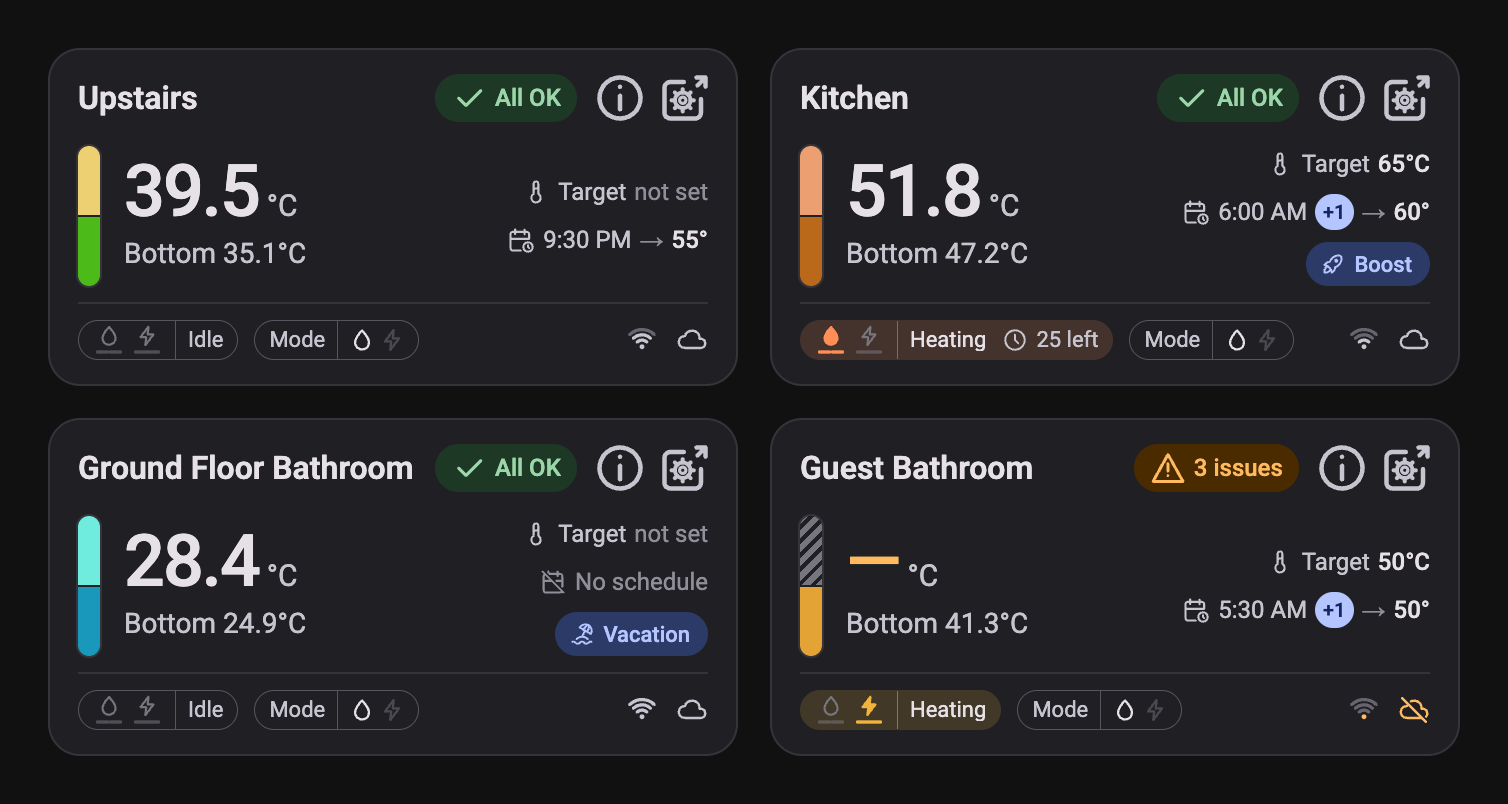
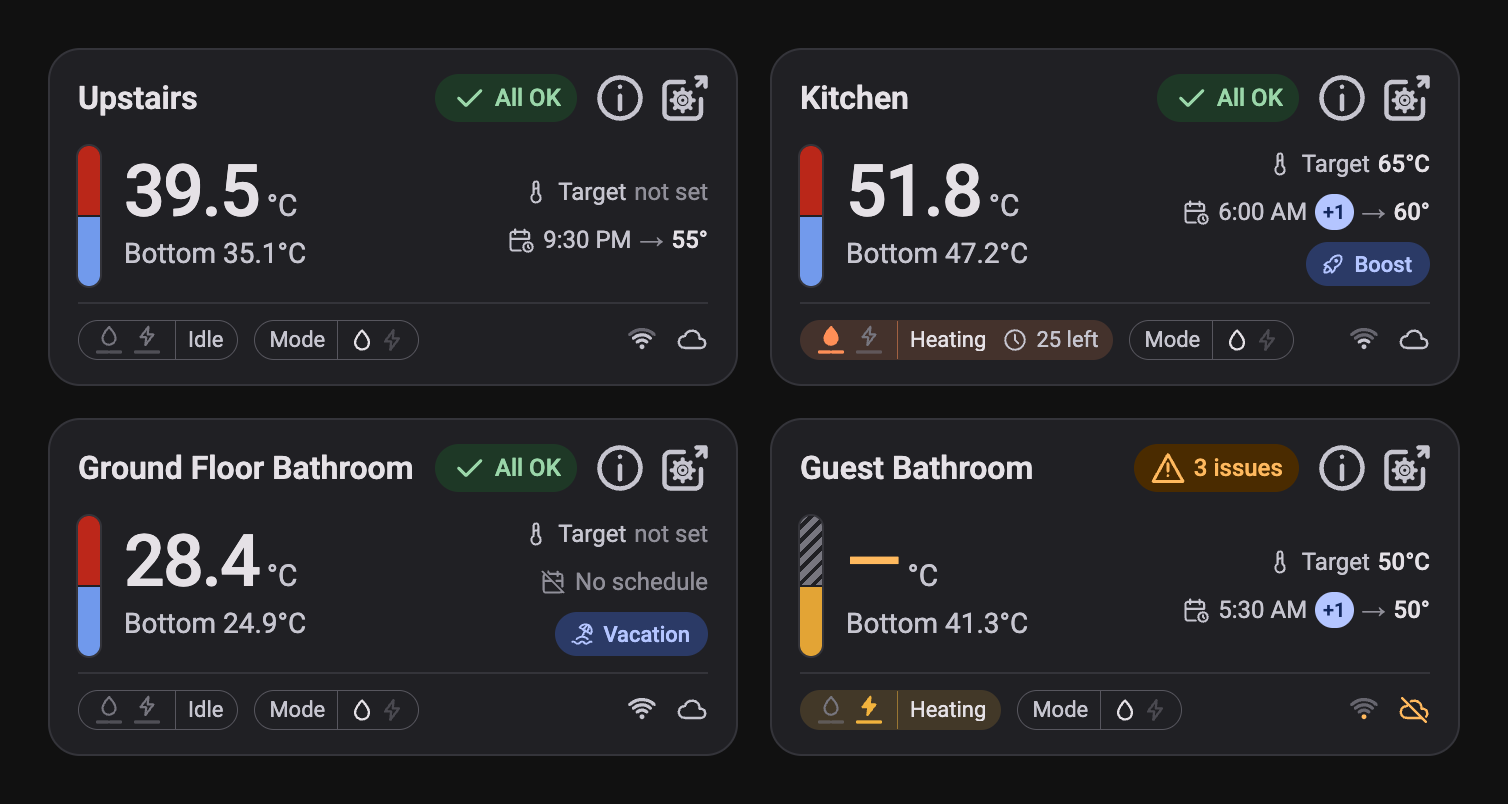
Show warmer and cooler tank readings in red and blue

Changed region(s): [[0.0312, 0.6219, 0.0935, 0.8085], [0.0312, 0.1866, 0.0935, 0.3731], [0.5298, 0.1866, 0.561, 0.3731]]

diff --git a/custom_components/ezgeyser/www/ezgeyser-card.js b/custom_components/ezgeyser/www/ezgeyser-card.js
@@ -225,8 +225,8 @@ function detailsHtml(view, showSource) {
     <dl>${row('Target',target)}${showSource ? row('Heat source',view.source) + row('Switch-over',view.switchOver) : ''}${row('Repeats',view.repeats)}</dl>
     <footer><button class="text-button" data-entity="next_event">History</button><button class="filled-button" data-close>Close</button></footer></div>`;
 }
-// Absolute hue anchors preserve the cool-to-hot meaning. A bounded relative
-// lightness contrast makes a small top/bottom difference visible inside the tank.
+// Equal or single readings use the absolute temperature hue; otherwise red and blue
+// distinguish the warmer and cooler halves, with additional lightness contrast.
 function tankColors(top, bottom) {
   const anchors = [[20,220],[30,165],[40,40],[50,25],[60,12],[75,0]];
   function hue(t) {
@@ -242,7 +242,12 @@ function tankColors(top, bottom) {
   const difference = top !== null && bottom !== null ? top-bottom : 0;
   // At a 1°C delta the halves differ by 24 lightness points; never exaggerate numbers.
   const contrast = Math.abs(difference) < .05 ? 0 : Math.min(18, 12 + Math.abs(difference)/3);
-  return [top,bottom].map((t,i) => t === null ? 'var(--off)' : `hsl(${hue(t).toFixed(2)} 76% ${55 + (i === 0 ? 1 : -1)*Math.sign(difference)*contrast}%)`);
+  return [top,bottom].map((t,i) => {
+    if (t === null) return 'var(--off)';
+    const relative = (i === 0 ? 1 : -1)*Math.sign(difference);
+    const colorHue = contrast ? (relative > 0 ? 5 : 220) : hue(t);
+    return `hsl(${colorHue.toFixed(2)} 76% ${55 - relative*contrast}%)`;
+  });
 }
 // The number's and the second line's line heights are trimmed to the glyphs, so the text block centres on its digits.
 // The middle row is always as tall as a full right column (target, event and a mode line), with or without modes, so

diff --git a/README.md b/README.md
@@ -155,8 +155,8 @@ setup errors. Installations without Home Assistant's `frontend` skip the card.
 
 ### Reading the card
 
-- **Tank bar:** the top half is the top sensor and the bottom half the bottom sensor. The colour runs from blue (cool)
-  through amber to red (hot), with extra lightness contrast so that even a 1 °C difference shows. The colours are a
+- **Tank bar:** the top half is the top sensor and the bottom half the bottom sensor. The warmer half is red and the cooler half blue, with extra lightness contrast so that even a 1 °C difference shows.
+  Equal readings and a single valid reading use a blue-to-red temperature scale. The colours are a
   guide; the numbers are the reading. A grey hatched half and an amber dash mean that sensor reports a fault.
 - **Badge:** **All OK**, the one problem by name (**Top sensor**, **Bottom sensor**, **Weak Wi-Fi**, **Cloud
   offline** or **Clock off**), or how many there are, such as **3 issues**; its tooltip lists them.
